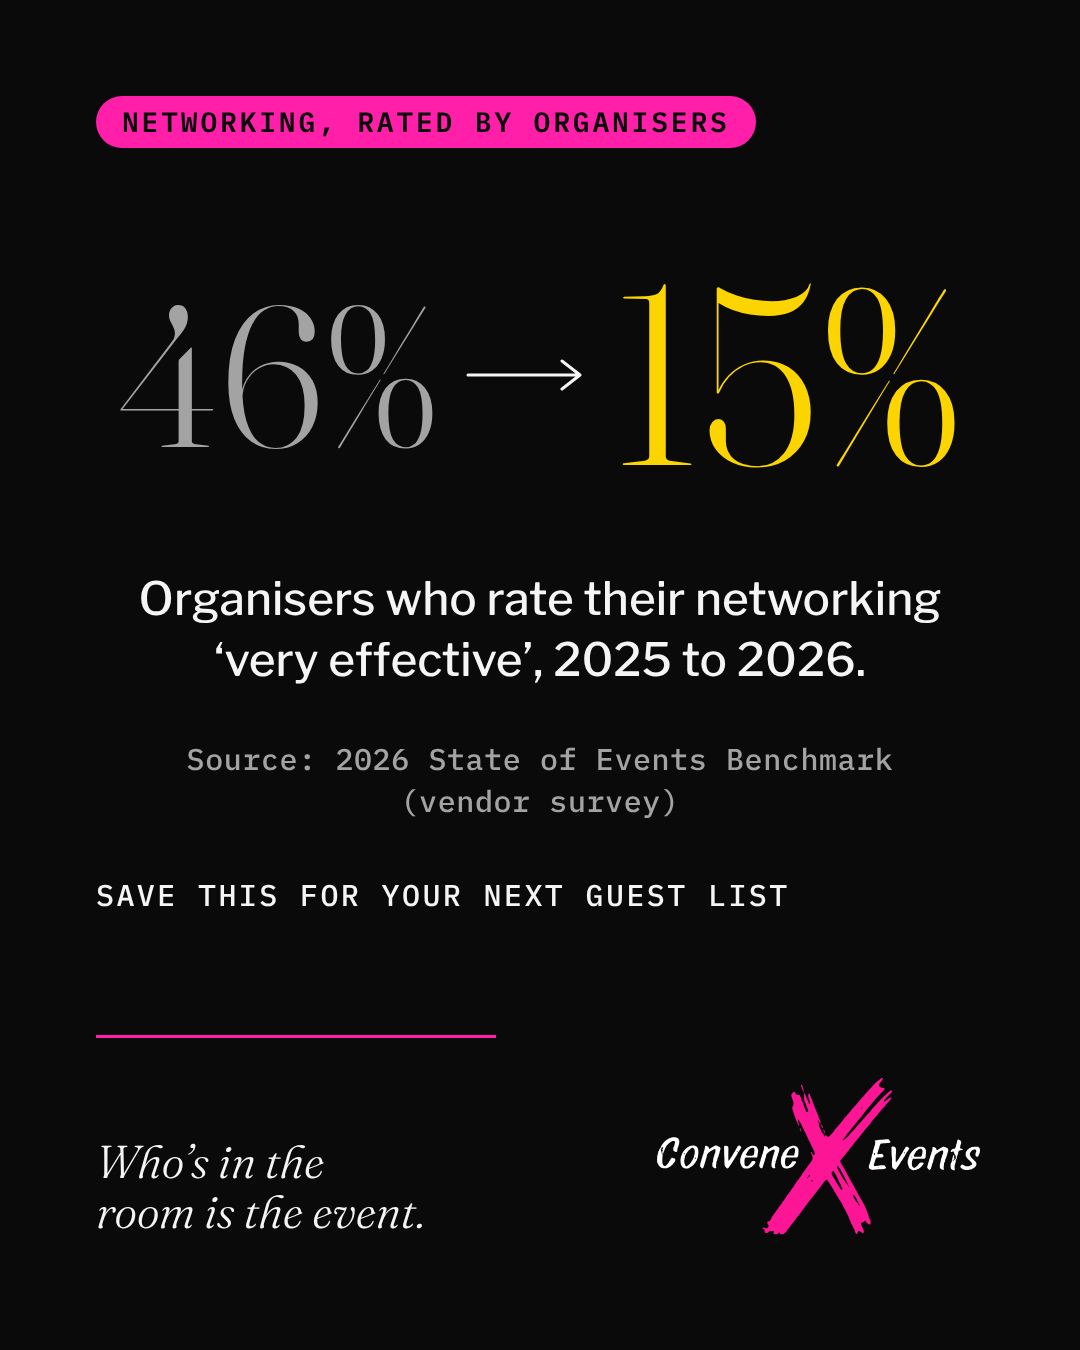
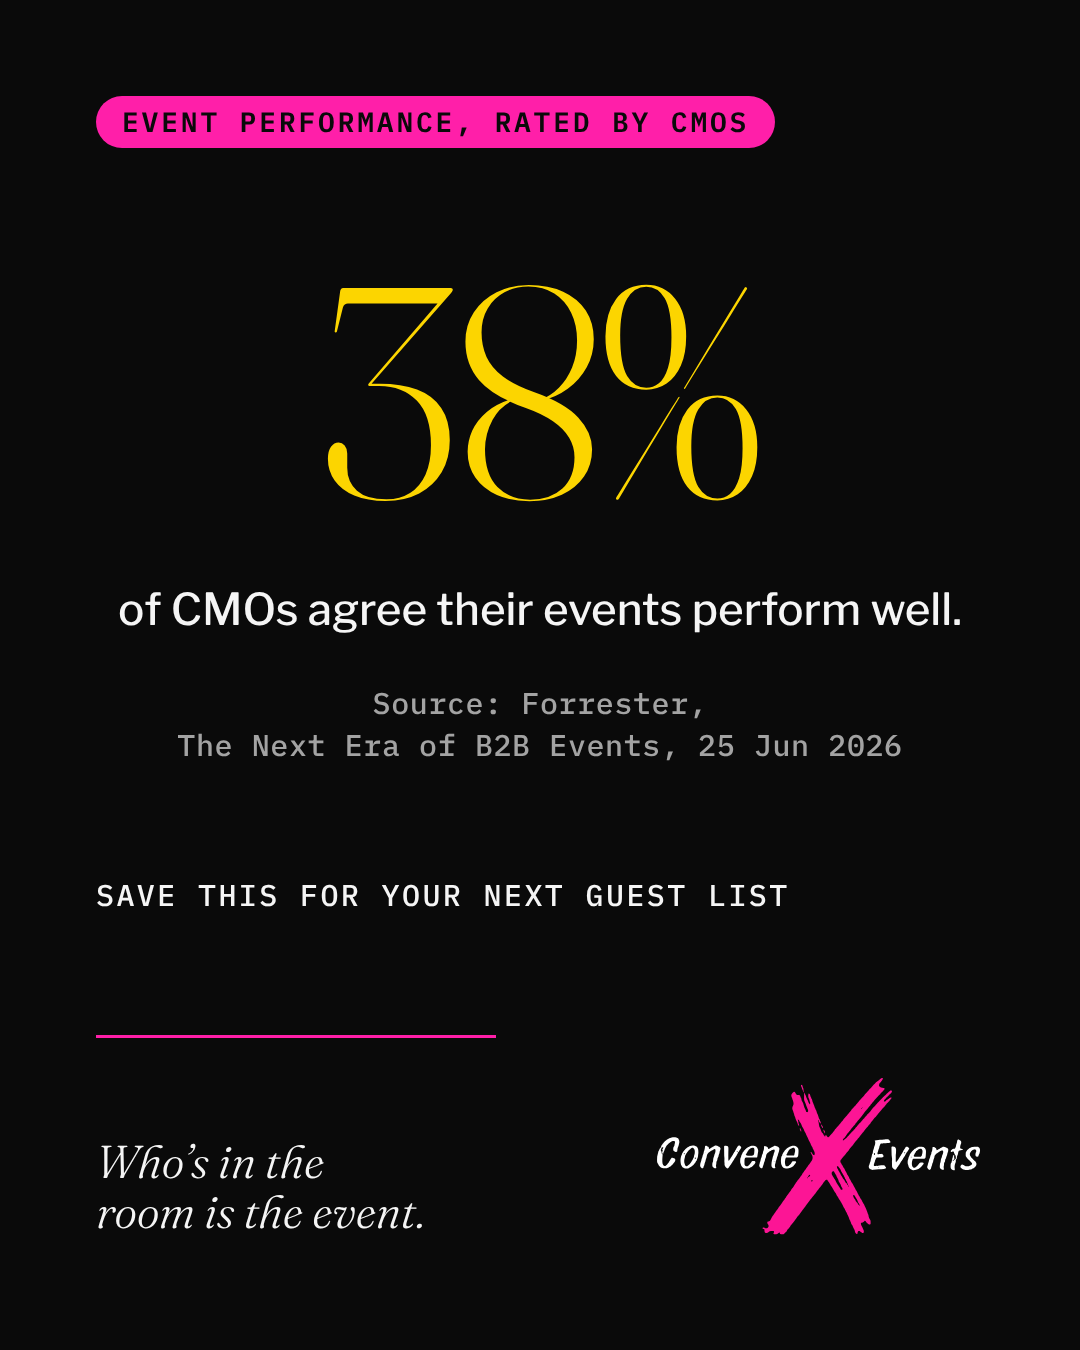
Wed 18 stat card: re-render for Forrester 38% (Bizzabo 46%/15% removed)
Draft only. Nothing scheduled, published or sent to Buffer. PDFs and Sat card unchanged.

Claude-Session: https://claude.ai/code/session_01NMzFPbWsK7E7Zo2xbv9833

diff --git a/docs/campaigns/2026-11-16-week/visuals/source/gen.py b/docs/campaigns/2026-11-16-week/visuals/source/gen.py
@@ -137,13 +137,11 @@ def thu():
 
 # ---------------- Wednesday stat card ----------------
 def wed():
-    arrow = f"""<svg width='120' height='40' viewBox='0 0 120 40' style='margin:0 28px'><path d='M2 20 H112 M96 6 L114 20 L96 34' stroke='{TXT}' stroke-width='3' fill='none' stroke-linecap='round' stroke-linejoin='round'/></svg>"""
-    p = [f"""<section class='page'><div class='top'><span class='pill pink'>NETWORKING, RATED BY ORGANISERS</span></div>
-      <div class='content' style='top:220px;text-align:center'>
-        <div style="display:flex;align-items:center;justify-content:center;font-family:'Fraunces',serif;font-weight:300;letter-spacing:-0.02em">
-          <span style='font-size:200px;color:{GREY}'>46%</span>{arrow}<span style='font-size:250px;color:{YEL}'>15%</span></div>
-        <p class='body' style='margin:40px auto 0;font-weight:500;max-width:820px'>Organisers who rate their networking &#8216;very effective&#8217;, 2025 to 2026.</p>
-        <p class='src' style='margin-top:48px'>Source: 2026 State of Events Benchmark<br>(vendor survey)</p>
+    p = [f"""<section class='page'><div class='top'><span class='pill pink'>EVENT PERFORMANCE, RATED BY CMOs</span></div>
+      <div class='content' style='top:240px;text-align:center'>
+        <div style="font-family:'Fraunces',serif;font-weight:300;letter-spacing:-0.02em;font-size:300px;line-height:1;color:{YEL}">38%</div>
+        <p class='body' style='margin:40px auto 0;font-weight:500;font-size:44px;max-width:888px'>of CMOs agree their events perform well.</p>
+        <p class='src' style='margin-top:44px'>Source: Forrester,<br>The Next Era of B2B Events, 25 Jun 2026</p>
       </div>
       <p class='save' style='position:absolute;left:96px;bottom:436px'>SAVE THIS FOR YOUR NEXT GUEST LIST</p>
       <div class='strip'><span class='tag'>Who&#8217;s in the room is the event.</span>{LOGO_IMG}</div></section>"""]
